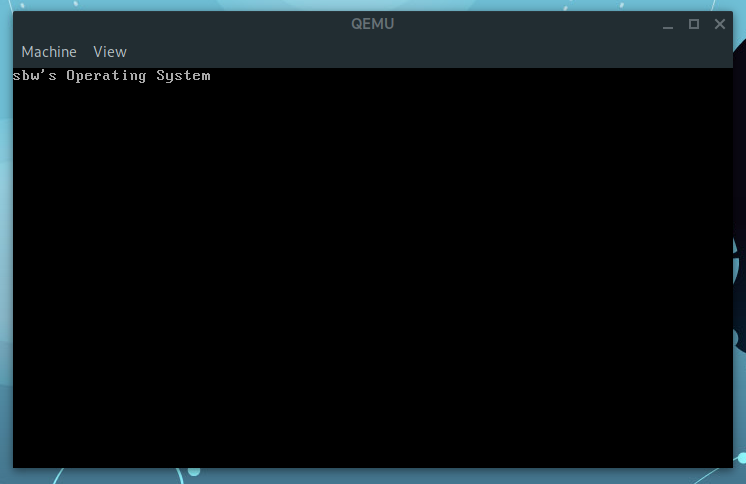
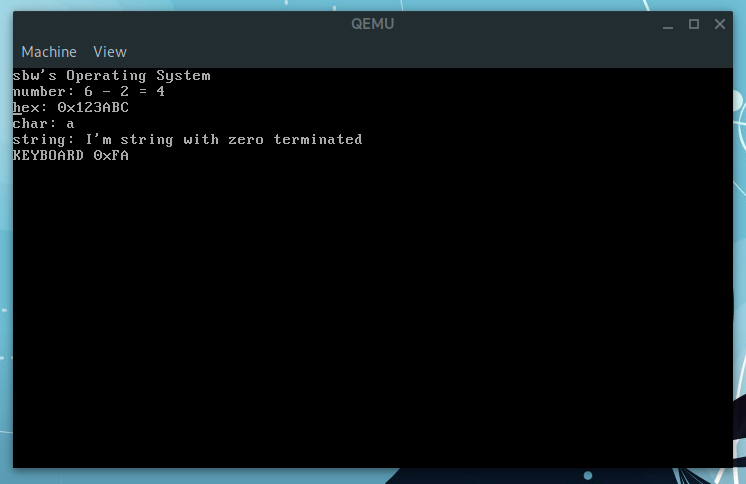
support print hexadecimal format

diff --git a/kernel.cpp b/kernel.cpp
@@ -68,6 +68,7 @@ extern "C" void kernelMain(void *multiboot_structure, uint32_t magic_number)
 {
     printf("sbw's Operating System\n");
     printf("number: %d - %d = %d\n", 6, 2, 6 - 2);
+    printf("hex: %x\n", 0x0123abc);
     printf("char: %c\n", 'a');
     printf("string: %s\n", "I'm string with zero terminated");
 

diff --git a/sos_io.h b/sos_io.h
@@ -2,6 +2,6 @@
 #ifndef __SOS_IO_H_
 #define __SOS_IO_H_
 
-extern "C" int __attribute__((cdecl)) printf(char *format, ...);
+extern "C" int __attribute__((cdecl)) printf(const char *format, ...);
 
 #endif // __SOS_IO_H_

diff --git a/keyboard.cpp b/keyboard.cpp
@@ -26,7 +26,7 @@ uint32_t KeyboardDriver::handleInterrupt(uint32_t esp)
 {
     uint8_t key = dataPort.read();
 
-    printf("KEYBOARD %c\t", key);
+    printf("KEYBOARD %x\t", key);
 
     return esp;
 }
